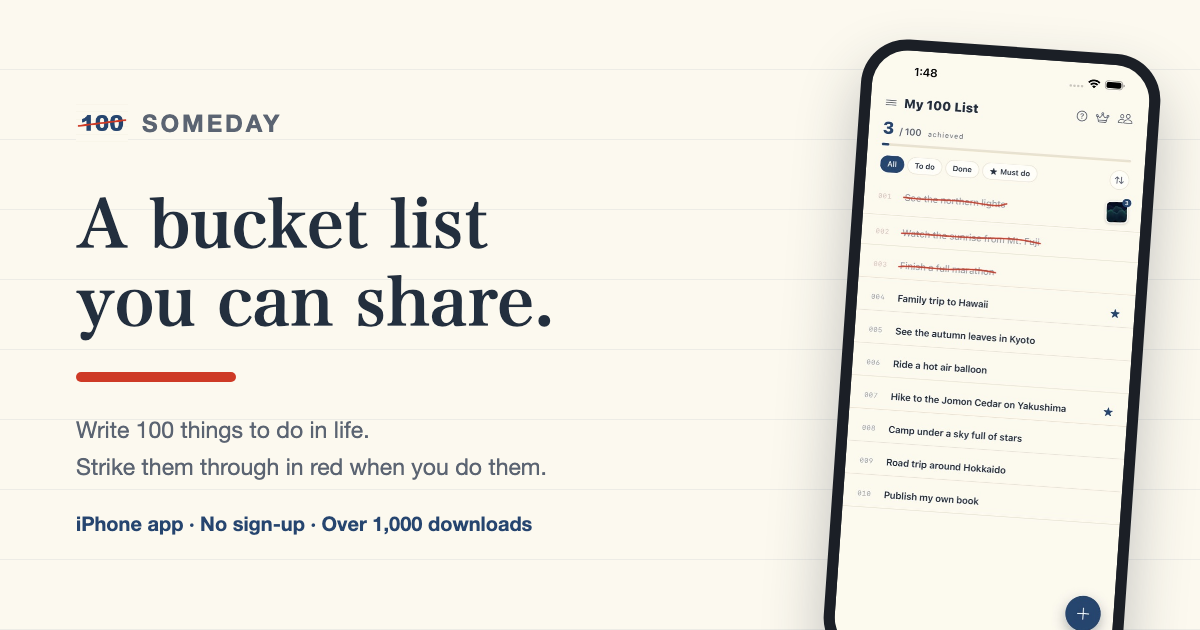
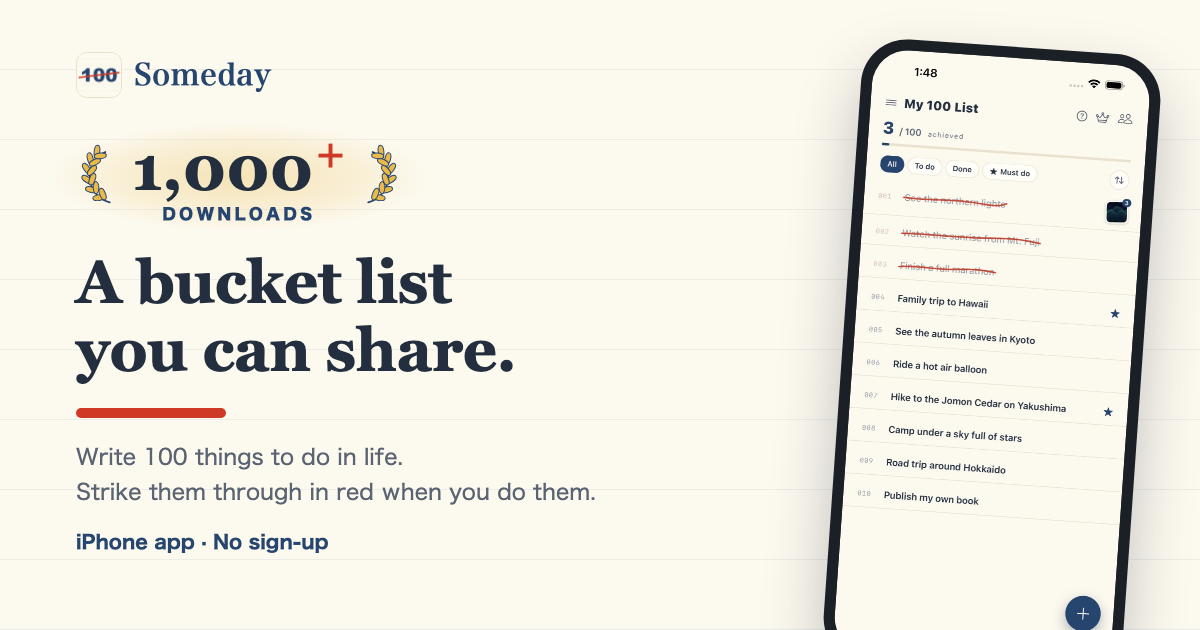
LP: 英語のカード画像に 1,000+ DOWNLOADS のエンブレムを大きく入れ、日英のロゴ表記を Someday に統一

Changed region(s): [[0.0617, 0.181, 0.4933, 0.8746], [0.0617, 0.0905, 0.2467, 0.1508]]

diff --git a/index.html b/index.html
@@ -9,7 +9,7 @@
 <meta property="og:description" content="1,000ダウンロード突破。叶えたら朱線で消す、100の枠のバケットリスト。ふたりで共有して、思い出に。">
 <meta property="og:type" content="website">
 <meta property="og:url" content="https://fumy98.github.io/someday/">
-<meta property="og:image" content="https://fumy98.github.io/someday/ogp.png?v=2">
+<meta property="og:image" content="https://fumy98.github.io/someday/ogp.png?v=3">
 <meta property="og:image:width" content="1200">
 <meta property="og:image:height" content="630">
 <meta property="og:image:type" content="image/png">
@@ -17,7 +17,7 @@
 <meta name="twitter:card" content="summary_large_image">
 <meta name="twitter:title" content="Someday − やりたいことを、100の枠に。">
 <meta name="twitter:description" content="1,000ダウンロード突破。叶えたら朱の斜線で消し込む。大切な人と同じリストを、招待リンクひとつで。">
-<meta name="twitter:image" content="https://fumy98.github.io/someday/ogp.png?v=2">
+<meta name="twitter:image" content="https://fumy98.github.io/someday/ogp.png?v=3">
 <link rel="icon" type="image/png" sizes="32x32" href="favicon-32.png">
 <link rel="apple-touch-icon" href="icon-180.png">
 <meta name="theme-color" content="#FCF9EF">

diff --git a/en.html b/en.html
@@ -11,7 +11,7 @@
 <meta property="og:type" content="website">
 <meta property="og:locale" content="en_US">
 <meta property="og:url" content="https://fumy98.github.io/someday/en.html">
-<meta property="og:image" content="https://fumy98.github.io/someday/ogp-en.png">
+<meta property="og:image" content="https://fumy98.github.io/someday/ogp-en.png?v=2">
 <meta property="og:image:width" content="1200">
 <meta property="og:image:height" content="630">
 <meta property="og:image:type" content="image/png">
@@ -19,7 +19,7 @@
 <meta name="twitter:card" content="summary_large_image">
 <meta name="twitter:title" content="Someday: A bucket list you can share">
 <meta name="twitter:description" content="Over 1,000 downloads. Strike your dreams through in red, together with your partner. One invite link.">
-<meta name="twitter:image" content="https://fumy98.github.io/someday/ogp-en.png">
+<meta name="twitter:image" content="https://fumy98.github.io/someday/ogp-en.png?v=2">
 <link rel="icon" type="image/png" sizes="32x32" href="favicon-32.png">
 <link rel="apple-touch-icon" href="icon-180.png">
 <meta name="theme-color" content="#FCF9EF">
